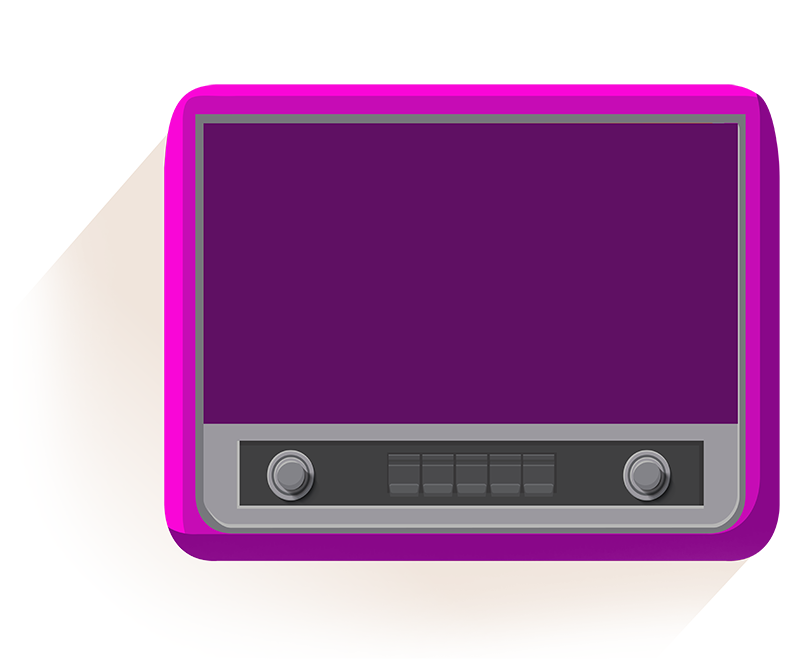
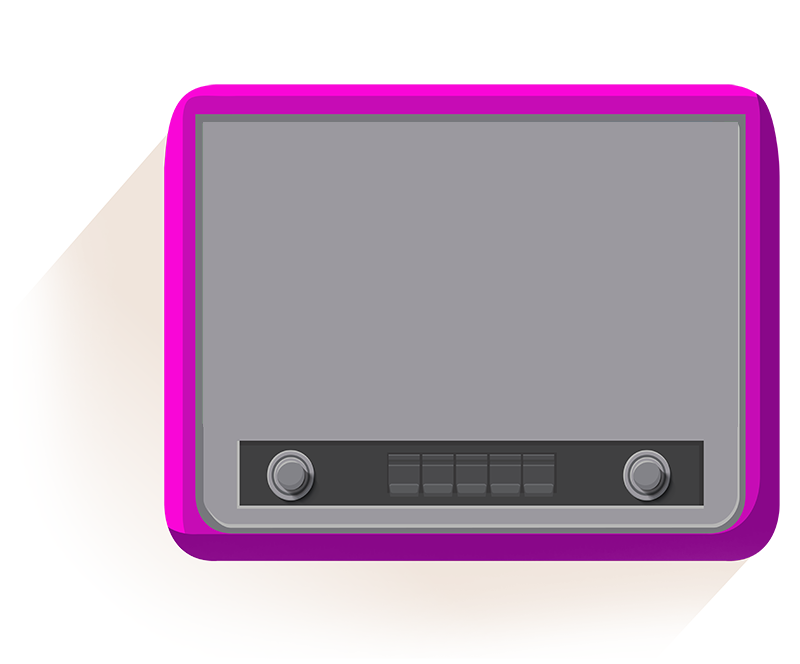
update video story

diff --git a/bol2/assets/js/functions.js b/bol2/assets/js/functions.js
@@ -4,21 +4,7 @@ sr.reveal('.logo, .col,.header-container, .story-card, .video-story, .video-sect
 
 
 $(document).ready(function() {
-	
-	
 	// For First Caption show
-	
-	$('.videoCaption').html($('.video-slide .frame-item:first').find('figcaption').text());
-	
-	
-	$('.video-slide').slick({
-      slidesToShow: 1,
-      slidesToScroll: 1,
-      autoplay: true,
-	  dots: true,
-      arrows: false,
-      autoplaySpeed: 4000
-    });
 	$('.slider-2').slick({
       slidesToShow: 3,
       slidesToScroll: 1,
@@ -64,8 +50,8 @@ $(document).ready(function() {
 	$('.photo-gallery').slick({
 	autoplay: true,
     draggable: true,
-    arrows: false,
-    dots: true,
+    arrows: true,
+    dots: false,
     fade: true,
     speed: 900,
     infinite: true,
@@ -266,3 +252,69 @@ $(document).ready(function() {
 });
 
 
+//Videos' section
+$(document).ready(function() {
+  var collectionSlug = 'ipl-videos'; //Needs to be replaced.
+  $.getJSON('https://www.thequint.com/api/v1/collections/' + collectionSlug, function(res) {
+    var stories = res.items.filter(function(item) {
+      return item.type == 'story'
+    }).map(function(item) {
+      return item.story
+    }).slice(0,5);
+    var elements = stories.map(function(story) {
+      return '<div class="frame-item"><a href="http://www.thequint.com/' + story.slug + '" target="blank"><img src="https://images.assettype.com/' + story['hero-image-s3-key'] + '?q=80&w=800&fm=pjpg" /><figcaption>' + story.headline + '</figcaption></a></div>'
+    });
+    elements.forEach(function(element) {
+      $('#videos-section-stories').append(element);
+    })
+  })
+  
+  
+  
+  setTimeout(function(){
+	$('.videoCaption').html($('.video-slide .frame-item:first').find('figcaption').text());
+	
+	
+	$('.video-slide').slick({
+      slidesToShow: 1,
+      slidesToScroll: 1,
+      autoplay: true,
+	  dots: true,
+      arrows: false,
+      autoplaySpeed: 2000
+    });
+	}, 4000);
+})
+
+
+
+
+//Single Story
+$(document).ready(function() {
+  $.getJSON('https://thequint-labs.quintype.io/api/v1/stories/9e3c5172-b3f1-4fcf-ac3d-08140013dda9', function(res) {
+    var lastStory = res.story;
+    var cards = lastStory.cards;
+    var cardsWithImages = cards.filter(function(card) {
+      return card.metadata && card.metadata.attributes && card.metadata.attributes['liveblogimage'] && card.metadata.attributes['liveblogimage'][0] == "true"
+    }).slice(0,1)
+    elements = cardsWithImages.map(function(card) {
+      var imageKey;
+      var titleElement;
+      if(card.metadata){
+        if(card && card.metadata && card.metadata.attributes && card.metadata.attributes['liveblogimage'][0]=="true" ){
+          var imageElement = card['story-elements'].find(function(storyElement) { return storyElement.type == 'image'});
+          titleElement = card['story-elements'].find(function(storyElement) { return storyElement.type == 'title'}) || {};  
+          imageKey= (imageElement || {})["image-s3-key"];
+        }
+      }
+      if(imageKey){
+        return '<figure class="more-list"><a href="https://www.thequint.com/section/sports" target="blank"><div class="story-image"><img src="https://images.assettype.com/' + imageKey + '?q=70&amp;w=800&amp;fm=pjpg" /></div><figcaption>' + titleElement.text + '</figcaption></a></figure>'
+      }
+    });
+    elements.forEach(function(element) {
+      if(element){
+        $('#single-story').append(element);
+      }
+    });
+  });
+});

diff --git a/bol2/index.html b/bol2/index.html
@@ -75,7 +75,7 @@
 	<div class="container container-bol-e-toh">
 		<div class="story-card">
 			<h3>BOL-E  TOH</h3>
-			<p>Lorem ipsum dolor sit amet, consectetur adipiscing elit.</p>
+			<p id="data-1"></p>
 		</div>
 		<div class="bol-gfx-text"><img src="assets/images/bol-gfx-text.png" alt=""></div>
 	</div>
@@ -93,27 +93,8 @@
 			<img class="video-frame" src="assets/images/bol-video.png" alt="">
 			<img class="video-frame-mob" src="assets/images/bol-video-mobile.png" alt="">
 			<div class="video-slider">
-				<div class="video-slide">
-					<div class="frame-item">
-						<a href="#"><img src="data/img-1.jpg" alt=""></a>
-						<figcaption>Lorem ipsum dolor sit amet 01</figcaption>	
-					</div>
-					<div class="frame-item">
-						<a href="#"><img src="data/img-1.jpg" alt=""></a>
-						<figcaption>Lorem ipsum dolor sit amet 02</figcaption>
-					</div>
-					<div class="frame-item">
-						<a href="#"><img src="data/img-1.jpg" alt=""></a>
-						<figcaption>Lorem ipsum dolor sit amet 03</figcaption>
-					</div>
-					<div class="frame-item">
-						<a href="#"><img src="data/img-1.jpg" alt=""></a>
-						<figcaption>Lorem ipsum dolor sit amet 04</figcaption>
-					</div>
-					<div class="frame-item">
-						<a href="#"><img src="data/img-1.jpg" alt=""></a>
-						<figcaption>Lorem ipsum dolor sit amet 05</figcaption>
-					</div>
+				<div id="videos-section-stories" class="video-slide">
+					
 				</div>
 			</div>
 		</div>
@@ -290,7 +271,8 @@
 	<div class="container single-story-container">
 	<div class="mal10">
 		<h3 class="section-headline">MEMES</h3>
-		<div class="story-card">
+		<div class="story-card" id="single-story">
+<!--
 			<figure>
 				<a href="#">
 					<div class="story-image">
@@ -298,6 +280,7 @@
 					</div>
 				</a>
 			</figure>
+-->
 		</div>
 		</div>
 	</div>
@@ -329,8 +312,7 @@
 					<div class="col-content-inner">
 						<h3 class="section-headline">Factoid</h3>
 						<div class="section-p">
-							<p>Lorem ipsum dolor sit amet, consectetur adipiscing elit,Lorem ipsum dolor sit </p>
-							<p>Lorem ipsum dolor sit amet, consectetur adipiscing elit,Lorem ipsum dolor sit </p>
+							<p id="data-2">Lorem ipsum dolor sit amet, consectetur adipiscing elit,Lorem ipsum dolor sit </p>
 						</div>
 					</div>		
 				</div>
@@ -401,8 +383,8 @@ window.talktype = window.talktype || function(f) {
 <script type="text/javascript" src="assets/js/jquery.easing.min.js"></script>
 <script type="text/javascript" src="assets/js/scrollreveal.min.js"></script>  
 <script type="text/javascript" src="assets/js/slick.min.js"></script>
-<!--<script type="text/javascript" src="assets/js/spreadsheet.js"></script>-->
+<script type="text/javascript" src="assets/js/spreadsheet.js"></script>
 <script type="text/javascript" src="assets/js/functions.js"></script>
-<!--<script type="text/javascript" src="assets/js/data-spreadsheet.js"></script>-->
+<script type="text/javascript" src="assets/js/data-spreadsheet.js"></script>
 </body>
 </html>

diff --git a/bol2/assets/js/data-spreadsheet.js b/bol2/assets/js/data-spreadsheet.js
@@ -16,11 +16,11 @@ function showInfo(data) {
 	
 	document.getElementById("data-2").innerHTML = "<div>" +[data[0].section2,] +"</div>";
 
-	document.getElementById("data-3").innerHTML = "<div>" +[data[0].section3,] +"</div>";
+	//document.getElementById("data-3").innerHTML = "<div>" +[data[0].section3,] +"</div>";
 	
-	document.getElementById("data-4").innerHTML = "<div>" +[data[0].section4,] +"</div>";
+	//document.getElementById("data-4").innerHTML = "<div>" +[data[0].section4,] +"</div>";
 	
-	document.getElementById("data-5").innerHTML = "<div>" +[data[0].section5,] +"</div>";
+	//document.getElementById("data-5").innerHTML = "<div>" +[data[0].section5,] +"</div>";
 
 
 }

diff --git a/bol2/assets/css/theme.css b/bol2/assets/css/theme.css
@@ -263,6 +263,7 @@ h1, h2, h3, h4, h5, h6 {
 	max-width: 60%;
 	position: relative;
 	margin: 0px 0px 0px 0px;
+	overflow: hidden;
 }
 .video-slider {
 	height: 200px;
@@ -270,6 +271,8 @@ h1, h2, h3, h4, h5, h6 {
 	position: absolute;
 	top: 83px;
 	width: 361px;
+	
+	background: #9B999F;
 }
 .video-frame {
 	position: relative;

diff --git a/bol2/assets/css/slick-theme.css b/bol2/assets/css/slick-theme.css
@@ -194,6 +194,8 @@
 	-webkit-transform: scale(1);
 	transform: scale(1);
 }
+
+
 /*Scale*/
 
 .slider-img, .story-image, .gallery-img {
